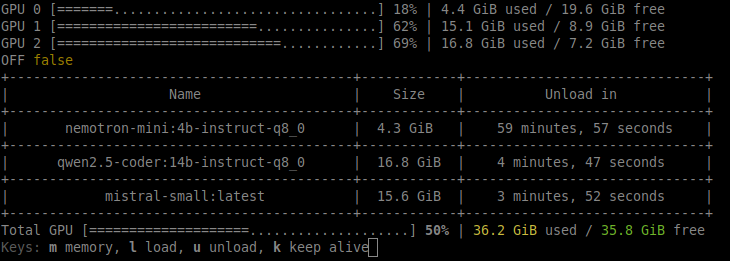
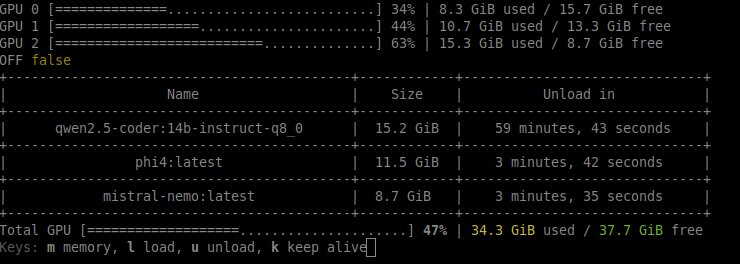
Update version and remove unnecessary console log
- Update package.json to version 0.0.2
- Remove unnecessary console log in src/ps.ts
- Update stats image in doc/img/stats.png

diff --git a/src/ps.ts b/src/ps.ts
@@ -42,7 +42,6 @@ async function ps(showGpuInfo = true) {
         console.log("No models are loaded in vram");
         return
     }
-    console.log("OFF", hasOffload);
     // models
     const { Table } = TCharts;
     const table = new Table(0.2);
